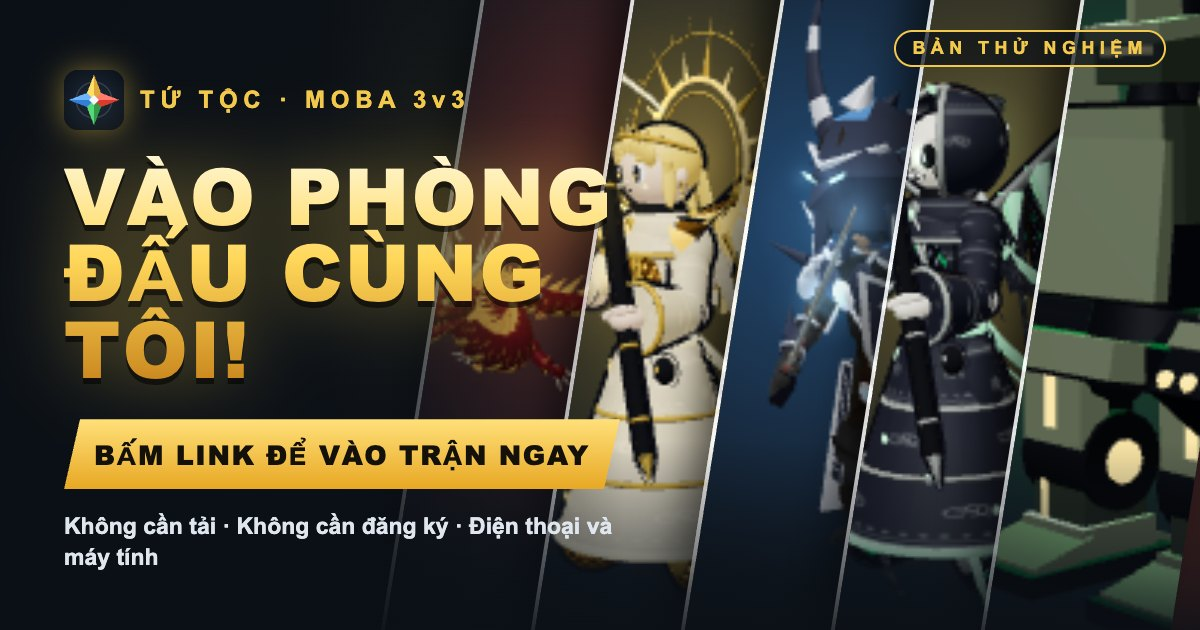
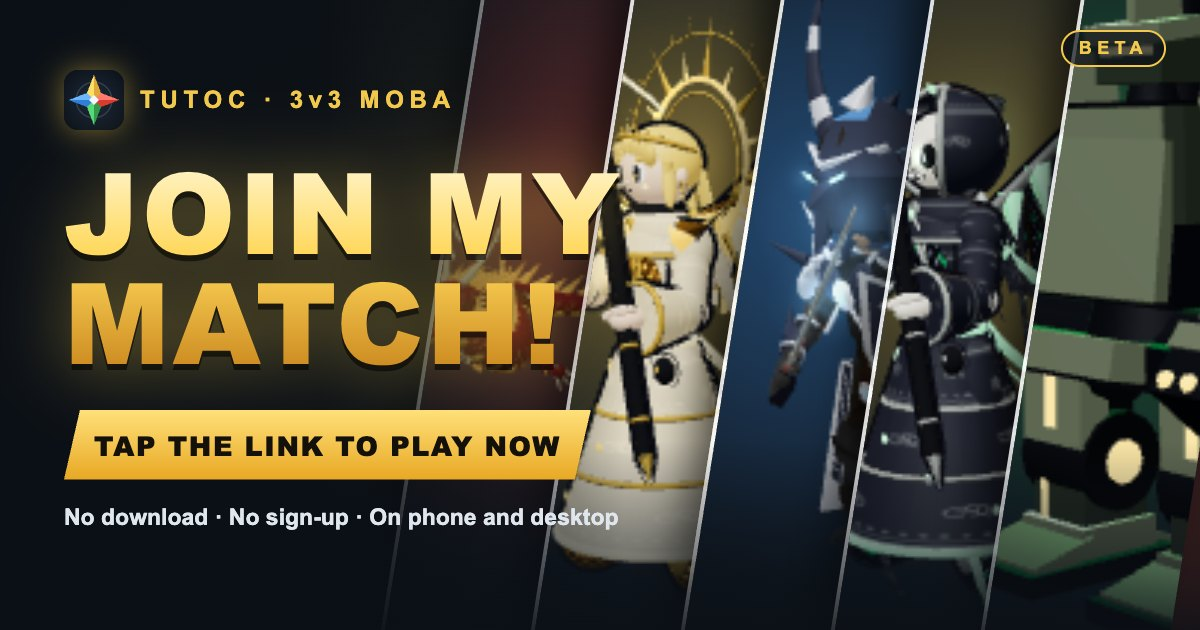
feat(client): put the shared-link cards into english

diff --git a/apps/client/index.html b/apps/client/index.html
@@ -1,5 +1,5 @@
 <!doctype html>
-<html lang="vi">
+<html lang="en">
   <head>
     <meta charset="UTF-8" />
     <!-- Assets are linked relatively; this makes them resolve from the site root on any route such as /r/CODE.
@@ -7,31 +7,31 @@
     <base href="/" />
     <!-- viewport-fit=cover lets the game use the whole screen of a phone with a notch. -->
     <meta name="viewport" content="width=device-width, initial-scale=1.0, viewport-fit=cover" />
-    <title>Tứ Tộc · MOBA 3v3 chơi ngay trên trình duyệt</title>
+    <title>Tutoc · 3v3 MOBA in your browser</title>
     <meta
       name="description"
-      content="16 tướng, 4 tộc, một đường quyết chiến. MOBA 3v3 chơi ngay trên trình duyệt: không cần tải, không cần đăng ký. Tạo phòng, gửi link, kéo bạn bè vào trận!"
+      content="16 heroes, 4 races, one lane to fight for. A 3v3 MOBA that runs in your browser: nothing to install, no sign-up. Make a room, send the link, pull your friends into the match!"
     />
     <!-- What a chat or a social network shows when the link is pasted into it. These apps read the
          head and nothing else, so the picture's address has to be whole. Links to a room get words
          and a picture of their own: see functions/r/[code].js. -->
     <meta property="og:type" content="website" />
-    <meta property="og:site_name" content="Tứ Tộc" />
-    <meta property="og:locale" content="vi_VN" />
-    <meta property="og:title" content="Tứ Tộc · MOBA 3v3 chơi ngay trên trình duyệt" />
+    <meta property="og:site_name" content="Tutoc" />
+    <meta property="og:locale" content="en_US" />
+    <meta property="og:title" content="Tutoc · 3v3 MOBA in your browser" />
     <meta
       property="og:description"
-      content="16 tướng, 4 tộc, một đường quyết chiến. Không cần tải, không cần đăng ký: tạo phòng, gửi link, kéo bạn bè vào trận!"
+      content="16 heroes, 4 races, one lane to fight for. A 3v3 MOBA that runs in your browser: nothing to install, no sign-up. Make a room, send the link, pull your friends into the match!"
     />
     <meta property="og:url" content="https://tu-toc.pages.dev/" />
     <meta property="og:image" content="https://tu-toc.pages.dev/og.jpg" />
     <meta property="og:image:width" content="1200" />
     <meta property="og:image:height" content="630" />
     <meta name="twitter:card" content="summary_large_image" />
-    <meta name="twitter:title" content="Tứ Tộc · MOBA 3v3 chơi ngay trên trình duyệt" />
+    <meta name="twitter:title" content="Tutoc · 3v3 MOBA in your browser" />
     <meta
       name="twitter:description"
-      content="16 tướng, 4 tộc, một đường quyết chiến. Không cần tải, không cần đăng ký: tạo phòng, gửi link, kéo bạn bè vào trận!"
+      content="16 heroes, 4 races, one lane to fight for. A 3v3 MOBA that runs in your browser: nothing to install, no sign-up. Make a room, send the link, pull your friends into the match!"
     />
     <meta name="twitter:image" content="https://tu-toc.pages.dev/og.jpg" />
     <meta name="theme-color" content="#0b1016" />

diff --git a/apps/client/functions/r/[code].js b/apps/client/functions/r/[code].js
@@ -6,9 +6,9 @@
 // those, as the page goes out, into an invitation to that room.
 
 const TEXT = {
-  title: (code) => `⚔ Vào phòng ${code} đấu 3v3 cùng tôi! · Tứ Tộc`,
+  title: (code) => `⚔ Join room ${code} for a 3v3 with me! · Tutoc`,
   description:
-    'Bấm link là vào trận: MOBA 3v3 chơi ngay trên trình duyệt, không cần tải, không cần đăng ký. Chọn tướng và chiến thôi!',
+    "Tap the link and you're in: a 3v3 MOBA that runs in your browser, nothing to install, no sign-up. Pick a hero and fight!",
 };
 
 export async function onRequestGet(context) {
